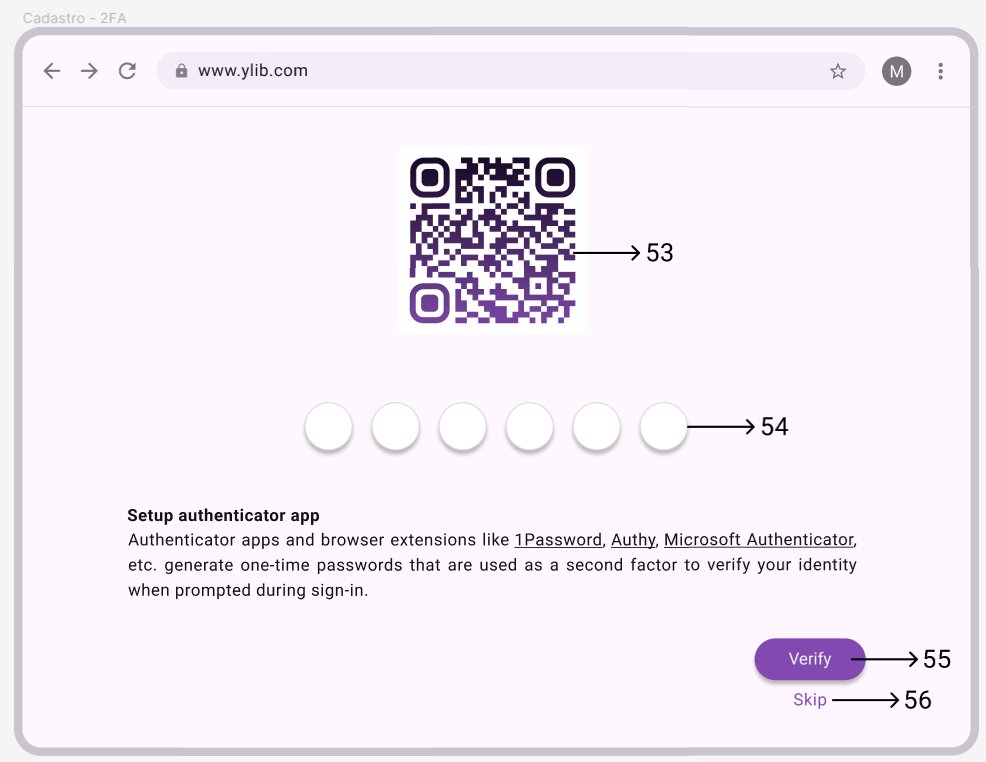
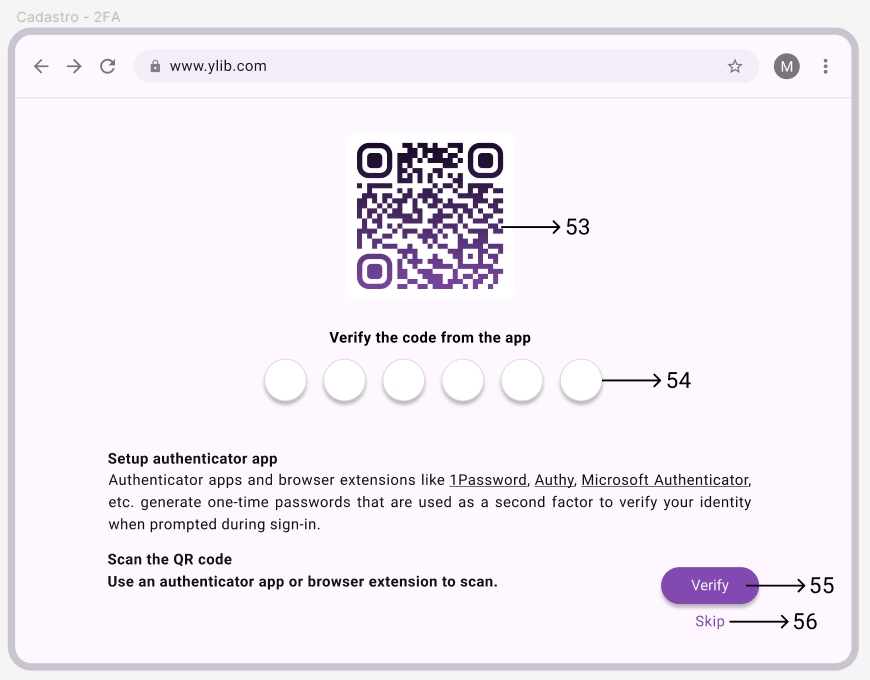
Image correction & Table added

diff --git a/README.md b/README.md
@@ -147,6 +147,70 @@ As procedures são scripts armazenados no banco de dados que realizam operaçõe
 
 </details>
 
+## Dicionário de dados
+| **Nome Campo**                   | **Origem do Dado(opc)** | **Tipo** | **Default**                   | **Máscara Edição** | **Brancos** | **Tamanho** | **Consistência**                                   |
+|----------------------------------|-------------------------|----------|-------------------------------|--------------------|-------------|-------------|----------------------------------------------------|
+| 1. Ícone de Perfil               | Sistema                 | btn      |                               |                    |             |             |                                                    |
+| 2. Menus Laterais                | Navegação               | btn      |                               |                    |             |             | Abrir e fechar opções de navegação                 |
+| 3. Campo de Busca                | Digitado                | txt      | Search book...                | N                  | N           | 50          | Opcional, página atualizada conforme é preenchida  |
+| 4. Botão "Filter"                | Ação do Usuário         | btn      |                               |                    |             |             |                                                    |
+| 5. Campo Autor                   | Digitado                | txt      | Search author...              | N                  | S           | 30          | Opcional                                           |
+| 6. Campo ISBN                    | Digitado                | txt      | Search ISBN...                | N                  | S           | 13          | Opcional                                           |
+| 7. Campo Editor                  | Digitado                | txt      | Search editor...              | N                  | S           | 30          | Opcional                                           |
+| 8. Campo Categoria/Gênero        | Digitado                | txt      | Search genre/category...      | N                  | S           | 30          | Opcional                                           |
+| 9. Aba "Latest"                  | Ação do Usuário         | btn      |                               |                    |             |             |                                                    |
+| 10. Aba "Popular"                | Ação do Usuário         | btn      |                               |                    |             |             |                                                    |
+| 11. Aba "Reserves"               | Ação do Usuário         | btn      |                               |                    |             |             |                                                    |
+| 12. Botão "Apply Filters"        | Ação do Usuário         | btn      |                               |                    |             |             | Mínimo um dos campos deve ser preenchido           |
+| 13. Livros Listados              | Dados do Banco          | txt, img |                               | N                  | N           | 20          |                                                    |
+| 14. Botão "Register Book"        | Ação do Usuário         | btn      |                               |                    |             |             | Visível para bibliotecário                         |
+| 15. Aba "Manage Books"           | Ação do Usuário         | btn      |                               | N                  |             |             | Visível para bibliotecário                         |
+| 16. Aba "Manage Reserves"        | Ação do Usuário         | btn      |                               | N                  |             |             | Visível para bibliotecário                         |
+| 17. Botão "Delete Book"          | Ação do Usuário         | btn      |                               |                    |             |             | Visível para bibliotecário                         |
+| 18. Botão "Edit Book"            | Ação do Usuário         | btn      |                               |                    |             |             | Visível para bibliotecário                         |
+| 19. Botão Seta                   | Ação do Usuário         | btn      |                               |                    |             |             |                                                    |
+| 20. Imagem da capa               | Dados do Banco          | img      |                               | N                  | N           |             | Não vazio                                          |
+| 21. Título do Livro              | Dados do Banco          | txt      |                               | N                  | N           | 50          | Não vazio                                          |
+| 22. Autor do Livro               | Dados do Banco          | txt      |                               | N                  | N           | 30          | Não vazio                                          |
+| 23. ISBN do Livro                | Dados do Banco          | txt      |                               | N                  | N           |             | Não vazio                                          |
+| 24. Gênero do Livro              | Dados do Banco          | txt      |                               | N                  | N           | 30          | Não vazio                                          |
+| 25. Ano de Publicação do Livro   | Dados do Banco          | txt      |                               | N                  | N           | 30          | Não vazio                                          |
+| 26. Descrição do livro           | Dados do Banco          | txt      |                               | N                  | N           | 1000        | Não vazio                                          |
+| 27. Unidades disponíveis         | Dados do Banco          | int      | Unavailable for reservation.  | N                  | S           | 50          |                                                    |
+| 28. Seção de livros relacionados | Dados do Banco          | txt, img | No recommendations available. | N                  | S           | 5           |                                                    |
+| 29. Botão “Reserve Book”         | Ação do Usuário         | btn      |                               |                    |             |             | Visível apenas para bibliotecários                 |
+| 30. Campo Título                 | Digitado                | txt      |                               | N                  | N           | 50          | Não vazio                                          |
+| 31. Campo ISBN                   | Digitado                | txt      |                               | N                  | N           | 13          | Não vazio                                          |
+| 32. Campo Gênero                 | Digitado                | txt      |                               | N                  | N           | 30          | Não vazio                                          |
+| 33. Campo Autor                  | Digitado                | txt      |                               | N                  | N           | 30          | Não vazio                                          |
+| 34. Campo Ano de Publicação      | Digitado                | txt      |                               | N                  | N           | 30          | Não vazio                                          |
+| 35. Capa do Livro                | Inserção de imagem      | img      |                               | N                  | N           |             | Não vazio                                          |
+| 36. Botão “Register”             | Ação do Usuário         | btn      |                               |                    |             |             |                                                    |
+| 37. Campo Email                  | Digitado                | txt      |                               | N                  | N           | 50          |                                                    |
+| 38. Campo Senha                  | Digitado                | pwd      |                               | S                  | N           | 30          |                                                    |
+| 39. Opção “Forgot Password”      | Ação do Usuário         | btn      |                               |                    |             |             | Recuperação de senha                               |
+| 40. Botão “Login”                | Ação do Usuário         | btn      |                               |                    |             |             |                                                    |
+| 41. Opção “Sign Up”              | Ação do Usuário         | btn      |                               |                    |             |             | Autentificação via Banco de Dados                  |
+| 42. Campo Nome                   | Digitado                | txt      |                               | N                  | N           | 50          | Não vazio                                          |
+| 43. Campo CPF                    | Digitado                | txt      |                               | N                  | N           | 14          | Validação de formato CPF                           |
+| 44. Campo Email                  | Digitado                | txt      |                               | N                  | N           | 50          | Validação de formato                               |
+| 45. Campo Senha                  | Digitado                | pwd      |                               | S                  | N           | 30          | Autentificação via Banco de Dados                  |
+| 46. Campo Confirmar Email        | Digitado                | txt      |                               | N                  | N           | 50          | Validação de formato                               |
+| 47. Campo Confirmar Senha        | Digitado                | pwd      |                               | S                  | N           | 30          | Autentificação via Banco de Dados                  |
+| 48. Upload de Imagem Usuário     | Inserção de imagem      | img      |                               | N                  | S           |             | Opcional                                           |
+| 49. Botão “Register              | Ação do Usuário         | btn      |                               |                    |             |             |                                                    |
+| 50. Código 2FA                   | Digitado                | num      |                               | N                  | N           | 6           | Validação de formato e valor                       |
+| 51. Botão “Verify”               | Ação do Usuário         | btn      |                               |                    |             |             |                                                    |
+| 52. Opção “Recovery code”        | Ação do Usuário         | btn      |                               |                    |             |             | Recuperação de conta 2FA                           |
+| 53. QR Code 2FA                  | Gerado                  | img      |                               |                    |             |             |                                                    |
+| 54. Campo código 2FA             | Digitado                | txt      | XXXXX-XXXXX                   | N                  | S           | 6           | Validação de formato e valor                       |
+| 55. Botão “Verify”               | Ação do Usuário         | btn      |                               |                    |             |             | Autentificação de conta 2FA                        |
+| 56. Botão “Skip”                 | Ação do Usuário         | btn      |                               |                    |             |             |                                                    |
+| 57. Campo “Recovery code”        | Digitado                | txt      | XXXXX-XXXXX                   | N                  | N           | 10          | Validação de formato e valor                       |
+| 58. Botão “Verify”               | Ação do Usuário         | btn      |                               |                    |             |             | Verificar código de recuperação 2FA                |
+
+
+
 ## Como Executar o Projeto
 
 ### Pré-requisitos
